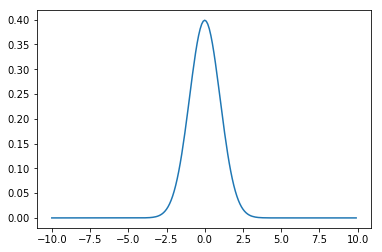
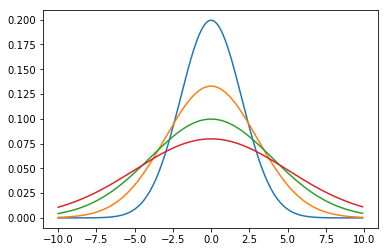
typo et publication

diff --git a/content/maximum_vraisemblance.md b/content/maximum_vraisemblance.md
@@ -1,14 +1,13 @@
 Title: Le maximum de vraisemblance
 Slug: maximum-de-vraissemblance
 Date: 2018-06-05 22:48:39
-Modified: 2018-06-05 22:48:39
+Modified: 2018-06-06 23:48:33
 Tags: statistique
 Category: informatique
 Author: Sacha schutz
-Status: Draft
 
-Je continue ma lancée avec ce billet traitant d'un sujet important aussi bien en statistique qu'en intelligence artificielle: **[Le maximum de vraisemblance](https://fr.wikipedia.org/wiki/Maximum_de_vraisemblance)**. Je rappelle que je ne suis ni statisticien ni mathématicien et que j'essaie d'expliquer ces concepts avec un simple regard naïf de programmeur.     
-Le maximum de vraisemblance est une méthode statistique permettant de trouver les paramètres d'un modèle les plus "*vraisemblables*" pour expliquer des données observées. On peut comparer cela avec une [régression linéaire](https://fr.wikipedia.org/wiki/R%C3%A9gression_lin%C3%A9aire) où l'objectif est d'identifier les paramètres a et b de l'équation y = ax+b. Dans la suite de ce billet, ce ne sera pas les paramètres d'une droite, mais les paramètres d'une [loi normale](https://fr.wikipedia.org/wiki/Loi_normale) que nous essayerons de déterminer.
+Je continue ma lancée avec ce billet traitant d'un sujet important aussi bien en statistique qu'en intelligence artificielle: **[Le maximum de vraisemblance](https://fr.wikipedia.org/wiki/Maximum_de_vraisemblance)**. Je rappelle que je ne suis ni statisticien ni mathématicien et que j'essaie d'expliquer ces concepts avec un simple regard naïf de programmeur. (C'est à dire sans formule de math ;D).     
+Le maximum de vraisemblance est une méthode statistique permettant de trouver les paramètres d'un modèle de probabilité les plus "*vraisemblables*" pour expliquer des données observées. On peut comparer cela avec une [régression linéaire](https://fr.wikipedia.org/wiki/R%C3%A9gression_lin%C3%A9aire) où l'objectif est d'identifier les paramètres a et b de l'équation y = ax+b. Dans la suite de ce billet, ce ne sera pas les paramètres d'une droite, mais les paramètres d'une [loi normale](https://fr.wikipedia.org/wiki/Loi_normale) que nous essayerons de déterminer.
 
 ### Nos données observées
 
@@ -25,11 +24,11 @@ On peut voir ici que la distribution des valeurs suit approximativement une loi 
 
 ### La fonction de la loi normale
 
- La loi normale est une fonction de x à deux paramètres **mu** et **sigma** définissant respectivement le centre de la courbe ([l'espérance](https://fr.wikipedia.org/wiki/Esp%C3%A9rance_math%C3%A9matique)) et sa largeur ([la variance](https://fr.wikipedia.org/wiki/Variance_(statistiques_et_probabilit%C3%A9s))). 
+ La loi normale a une fonction de densité de probabilité p paramétrée par  **mu** et **sigma** définissant respectivement le centre de la courbe ([l'espérance](https://fr.wikipedia.org/wiki/Esp%C3%A9rance_math%C3%A9matique)) et sa largeur ([la variance](https://fr.wikipedia.org/wiki/Variance_(statistiques_et_probabilit%C3%A9s))). 
 
 <div class="figure">
 <img src="../images/maximum_vraisemblance/equation.png" />
-<div class="legend">fonction définissant une la loi normale</div>
+<div class="legend">fonction définissant une loi normale</div>
 </div>
 
 En python cette fonction est implémentée dans la librairie [scipy](https://docs.scipy.org/doc/scipy-0.16.1/reference/generated/scipy.stats.norm.html). Pour tracer cette fonction, il suffit de faire: 
@@ -49,15 +48,15 @@ plt.plot(x,y)
 
 <div class="figure">
 <img src="../images/maximum_vraisemblance/loi_normale.png" />
-<div class="legend">Exemple d'une loi normale d'espérance 0 et de variance 1</div>
+<div class="legend">Différentes lois normales d'espérance mu=0 et de variance sigma=2,3,4 et 5</div>
 </div>
 
 En faisant varier *mu* et *sigma*, vous verrez différentes formes de cloche. Le but est donc de trouver quelles sont les meilleures valeurs de ces deux paramètres pouvant expliquer la distribution de nos données.
 
 ### Calcul de la vraisemblance 
-Pour faire simple, nous allons uniquement évaluer le paramètre *sigma* et fixer *mu* à 24. Il faut d'abord attribuer à chaque valeur possible de *sigma* un indicateur appelé vraisemblance que l'on note *L(sigma)*. Il s'agit du produit de *f(x)* pour toute valeur *x* provenant de nos données observées.
+Pour faire simple, nous allons uniquement évaluer le paramètre *sigma* et fixer *mu* à 24. Pour cela, on va d'abord attribuer à chaque valeur possible de *sigma* un indicateur appelé **vraisemblance** que l'on note *L(sigma)*. Cette indicateur est la probabilité d'obtenir notre distribution des âges sous le paramètre *sigma*. Il s'obtient en faisant le produit de la fonction *p(x)* pour toute valeur *x* provenant de nos données observées.
 
-    L(sigma) = f(x1) * f(x2) * f(x3) * .... 
+    L(sigma) = p(x1) * p(x2) * p(x3) * .... 
 
 Son implémentation en python est la suivante : 
 
@@ -126,7 +125,7 @@ En recherchant la valeur de sigma qui donne la plus grande vraisemblance, on tro
     #x       2.1
     #y   -2157.835771
 
-En traçant la fonction normale avec les paramètres mu=24 et sigma=2.1, on peut alors dessiner une courbe en cloche qui s'ajuste parfaitement. 
+On peut alors traçer sur la distribution des âges, une fonction normale d'esperance *mu*=24 et de variance prédis *sigma*=2.1. Vous constaterez alors que la courbe en cloche s'ajuste parfaitement aux données. Et voilà ! 
 
 <div class="figure">
 <img src="../images/maximum_vraisemblance/adjusted.png" />
@@ -135,4 +134,8 @@ En traçant la fonction normale avec les paramètres mu=24 et sigma=2.1, on peut
 
 
 ### Conclusion
-Le maximum de vraisemblance permet de faire beaucoup plus de choses bien plus stylées. Il est par exemple impliqué dans [l'algorithme d'espérance-maximisation](https://fr.wikipedia.org/wiki/Algorithme_esp%C3%A9rance-maximisation) permettant par exemple d'extraire deux lois normales à partir d'un jeu de données mélangées. J'y reviendrai.. Quand j'aurais bien compris ! 
+L'utilisation dans ce billet d'un algorithme itératif, pour trouver sigma, n'a qu'un but pédagogique. En réalité, pour une loi normale, le maximum de vraisemblance se calcule de manière analytique. C'est à dire avec une formule mathématique. ( il suffit de calculer le point ou la dérivé de L(sigma) s'annule). Vous trouverez une démonstration [ici](http://www.jybaudot.fr/Inferentielle/exmaxvrais.html) pour la loi normale et la loi exponentielle .   
+En revanche pour des lois plus complexes, on peut être amené à utiliser [l'algorithme d'espérance-maximisation](https://fr.wikipedia.org/wiki/Algorithme_esp%C3%A9rance-maximisation) qui permet par exemple d'extraire deux lois normales à partir d'un jeu de données mélangées. J'y reviendrai.. Quand j'aurais bien compris ! 
+
+
+Merci à @andré pour la relecture ! 
